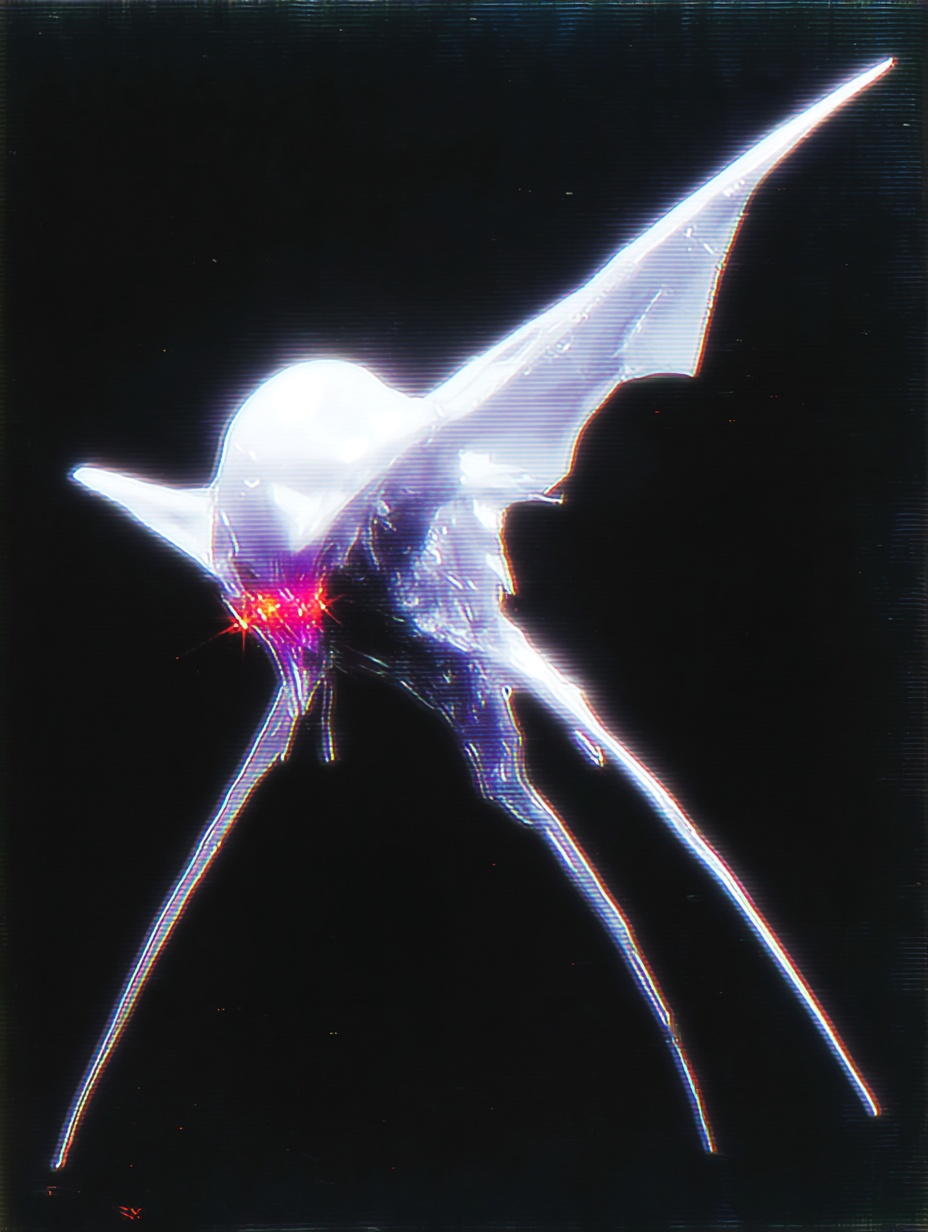
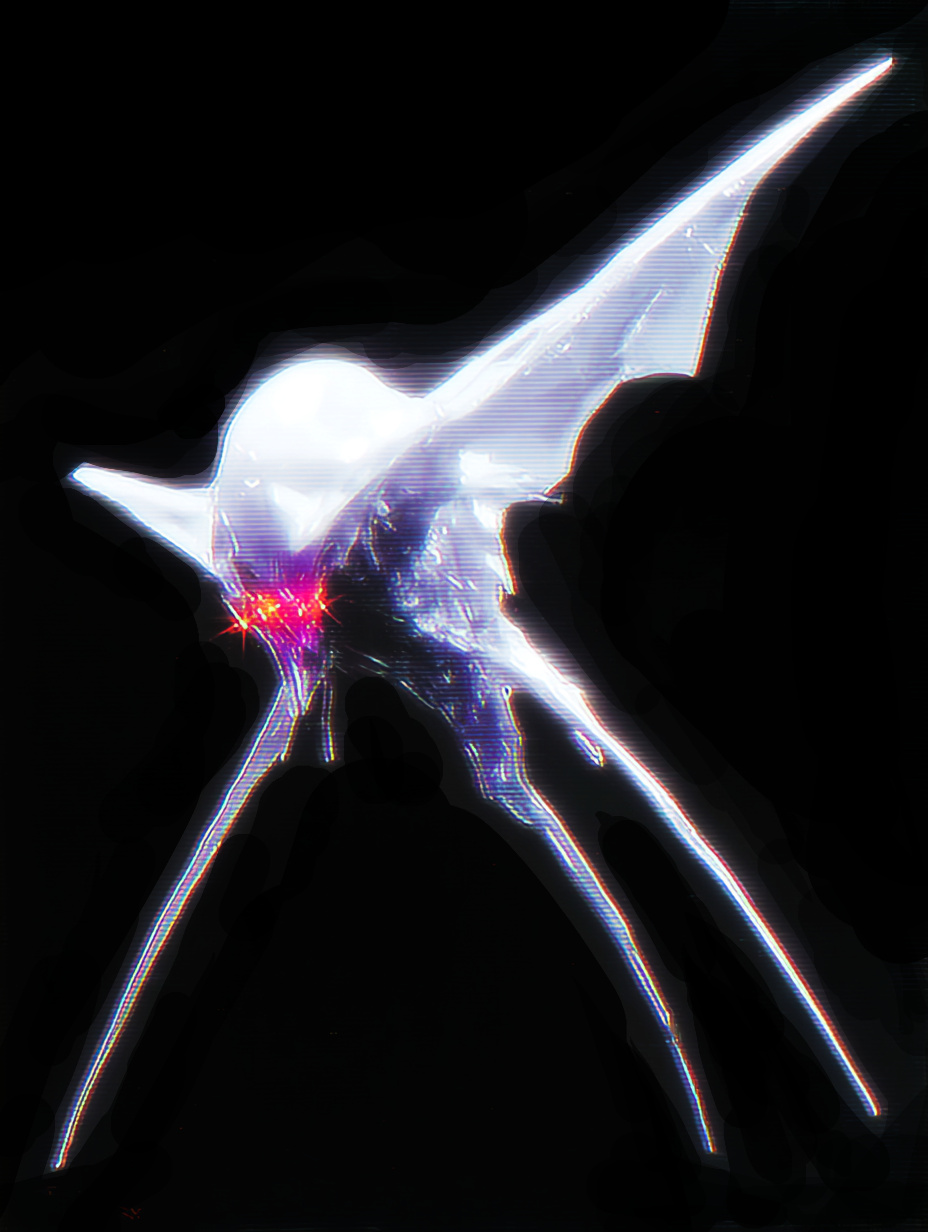
Update visual theme (CRT effect, white UI) and replace monsters with dithered assets

diff --git a/interfaces_gui/phase_combat_gui.py b/interfaces_gui/phase_combat_gui.py
@@ -1,6 +1,7 @@
 import pygame
 import time
 from affichage_gui.gui_manager import GuiManager, COLOR_HIGHLIGHT, COLOR_TEXT, PANEL_VIEW_X, PANEL_VIEW_Y, PANEL_VIEW_W, PANEL_VIEW_H, PANEL_DIALOG_X, PANEL_DIALOG_Y, PANEL_DIALOG_W
+from affichage_gui.dithering import apply_jarvis_judice_ninke_dithering
 from utils.de6faces import De
 from personnages import frapper, fuir, depecer
 from affichage.ascii_art import WOLF, ORC, DRAGONNET
@@ -12,6 +13,7 @@ class PhaseCombatGUI:
         self.gui.init()
         self.hero = None
         self.monstre = None
+        self.monster_surface = None
         self.combat_log = []
 
     def afficher(self, hero, monstre):
@@ -22,6 +24,22 @@ class PhaseCombatGUI:
         self.hero = hero
         self.monstre = monstre
         self.combat_log = [f"Un {monstre.race} sauvage apparaît !"]
+        
+        # Chargement et traitement de l'image du monstre
+        self.monster_surface = None
+        try:
+            if hasattr(monstre, 'image_path'):
+                img = pygame.image.load(monstre.image_path).convert()
+                # Redimensionner pour tenir dans le viewport (max 350x350)
+                max_size = 350
+                scale = min(max_size / img.get_width(), max_size / img.get_height())
+                if scale < 1:
+                    new_size = (int(img.get_width() * scale), int(img.get_height() * scale))
+                    img = pygame.transform.scale(img, new_size)
+                
+                self.monster_surface = apply_jarvis_judice_ninke_dithering(img)
+        except Exception as e:
+            print(f"Erreur chargement image monstre: {e}")
         
         options = [("ATTAQUER", "attaquer"), ("FUIR", "fuir")]
         selection = 0
@@ -115,36 +133,18 @@ class PhaseCombatGUI:
         cx = PANEL_VIEW_X + PANEL_VIEW_W // 2
         cy = PANEL_VIEW_Y + PANEL_VIEW_H // 2
         
-        # Choix de l'ASCII Art
-        art = None
-        race = self.monstre.race.lower()
-        if "loup" in race:
-            art = WOLF
-        elif "orque" in race:
-            art = ORC
-        elif "dragon" in race:
-            art = DRAGONNET
-            
-        if art:
-            lines = art.strip().split('\n')
-            start_y = cy - (len(lines) * 10) # Centrage vertical approximatif
-            for i, line in enumerate(lines):
-                # Centrage horizontal approximatif (chaque char ~10px)
-                text_w = len(line) * 10 
-                x = cx - text_w // 2
-                self.gui.draw_text(line, x, start_y + i * 20, (200, 200, 200))
+        if self.monster_surface:
+            rect = self.monster_surface.get_rect(center=(cx, cy - 20))
+            self.gui.screen.blit(self.monster_surface, rect)
         else:
-            # Fallback si pas d'art
-            rect_monstre = pygame.Rect(0, 0, 100, 100)
-            rect_monstre.center = (cx, cy)
-            pygame.draw.rect(self.gui.screen, (200, 50, 50), rect_monstre)
-            self.gui.draw_text(f"{self.monstre.race}", cx - 40, cy - 70, (255, 100, 100))
+            # Fallback text
+            self.gui.draw_text(f"{self.monstre.race}", cx, cy - 20, (255, 100, 100), center=True)
         
         # Barre de vie du monstre
         width_bar = 150
         height_bar = 10
         x_bar = cx - width_bar // 2
-        y_bar = cy + 100 # Un peu plus bas que l'art
+        y_bar = cy + 160 # Sous l'image
         
         ratio = max(0, self.monstre.points_de_vie / self.monstre.points_de_vie_max)
         pygame.draw.rect(self.gui.screen, (50, 0, 0), (x_bar, y_bar, width_bar, height_bar))

diff --git a/affichage_gui/gui_manager.py b/affichage_gui/gui_manager.py
@@ -10,9 +10,9 @@ FPS = 60
 
 # Couleurs
 COLOR_BG = (5, 5, 10)
-COLOR_PANEL_BG = (15, 15, 20)
-COLOR_BORDER = (100, 100, 120)
-COLOR_TEXT = (200, 200, 200)
+COLOR_PANEL_BG = (0, 0, 0, 180)  # Noir semi-transparent
+COLOR_BORDER = (255, 255, 255)
+COLOR_TEXT = (255, 255, 255)
 COLOR_HIGHLIGHT = (255, 215, 0)
 
 # Dimensions
@@ -53,8 +53,15 @@ class GuiManager:
         self.clock = pygame.time.Clock()
         self.font = pygame.font.SysFont("Courier New", 20, bold=True)
         self.title_font = pygame.font.SysFont("Courier New", 40, bold=True)
+        self.scanline_surface = self._create_scanlines()
         self.running = True
         self.initialized = True
+
+    def _create_scanlines(self):
+        surface = pygame.Surface((SCREEN_WIDTH, SCREEN_HEIGHT), pygame.SRCALPHA)
+        for y in range(0, SCREEN_HEIGHT, 2):
+            pygame.draw.line(surface, (0, 0, 0, 30), (0, y), (SCREEN_WIDTH, y), 1)
+        return surface
 
     def clear_screen(self):
         self.screen.fill(COLOR_BG)
@@ -65,15 +72,22 @@ class GuiManager:
             self.screen.blit(image, (0, 0))
 
     def update_display(self):
+        self.screen.blit(self.scanline_surface, (0, 0))
         pygame.display.flip()
         self.clock.tick(FPS)
 
     def draw_panel(self, x, y, w, h, title=None):
         rect = pygame.Rect(x, y, w, h)
         pygame.draw.rect(self.screen, COLOR_PANEL_BG, rect, border_radius=15)
-        pygame.draw.rect(self.screen, COLOR_BORDER, rect, 2, border_radius=15)
+        
+        # CRT Flicker effect
+        import random
+        val = random.randint(200, 255)
+        flicker_color = (val, val, val)
+        
+        pygame.draw.rect(self.screen, flicker_color, rect, 2, border_radius=15)
         if title:
-            text = self.font.render(title, True, COLOR_BORDER)
+            text = self.font.render(title, True, flicker_color)
             self.screen.blit(text, (x + 20, y + 15))
 
     def draw_text(self, text, x, y, color=COLOR_TEXT, font=None, center=False):

diff --git a/personnages/monstre.py b/personnages/monstre.py
@@ -16,29 +16,42 @@ class Monster(Personnage):
         # Le loot est calculé à la création du monstre
         self.cuir = De.lancer(1, 4) if self.peut_donner_cuir else 0
         self.gold = De.lancer(1, 6) if self.peut_donner_or else 0
+        
+        # Chemin de l'image
+        import os
+        base_path = os.path.dirname(os.path.dirname(os.path.abspath(__file__)))
+        self.image_path = os.path.join(base_path, 'assets', 'Mosters', f'{race}.png')
 
     @property
     def endurance(self):
-        bonus = 1 if self.race == "Dragonnet" else 0
+        bonus = 0
+        if self.race in ["HellParasite", "StrygMoth"]:
+            bonus = 2
+        elif self.race in ["NightScreamer"]:
+            bonus = 1
         return self._endurance_base + bonus
 
     @property
     def force(self):
-        bonus = 1 if self.race == "Orque" else 0
+        bonus = 0
+        if self.race in ["HellParasite", "NightScreamer"]:
+            bonus = 2
+        elif self.race in ["StingFish"]:
+            bonus = 1
         return self._force_base + bonus
 
     @property
     def peut_donner_cuir(self):
-        return self.race in ["Loup", "Dragonnet"]
+        return self.race in ["StingFish", "HellParasite", "NightScreamer"]
 
     @property
     def peut_donner_or(self):
-        return self.race in ["Orque", "Dragonnet"]
+        return self.race in ["BloodFairy", "StrygMoth", "HellParasite"]
 
 def creer_monstre_aleatoire():
     """
     Fonction pour créer un monstre aléatoire.
     """
-    races_monstres = ["Loup", "Orque", "Dragonnet"]
+    races_monstres = ["BloodFairy", "HellParasite", "NightScreamer", "StingFish", "StrygMoth"]
     race_choisie = random.choice(races_monstres)
     return Monster(race_choisie)
